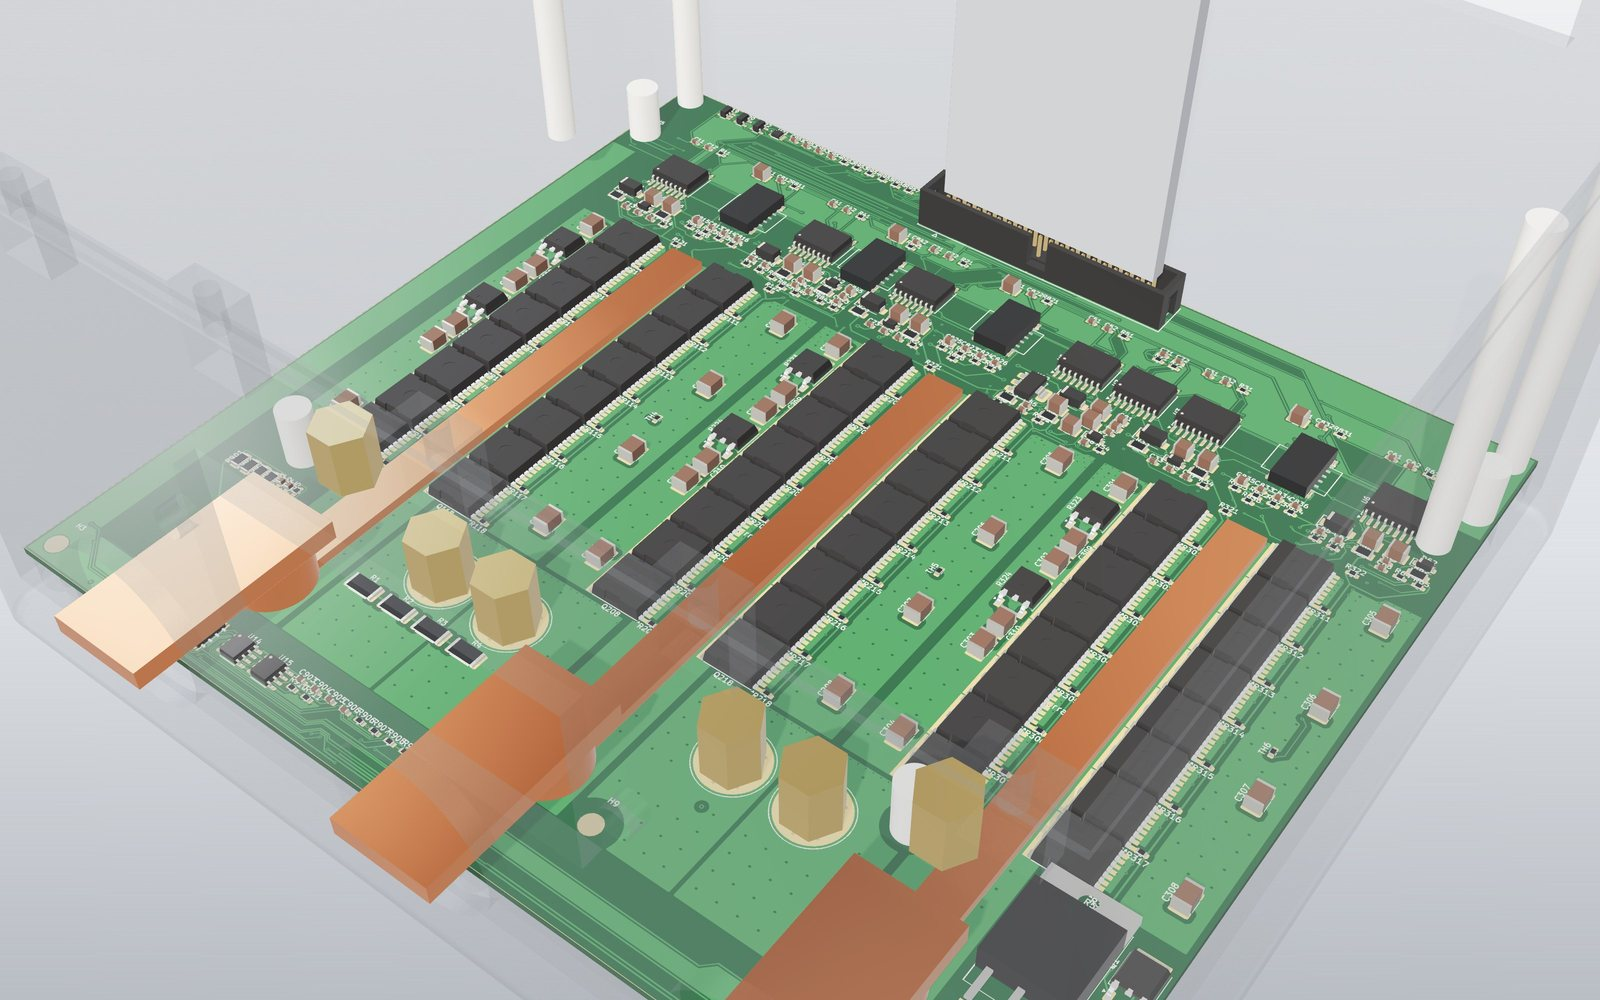
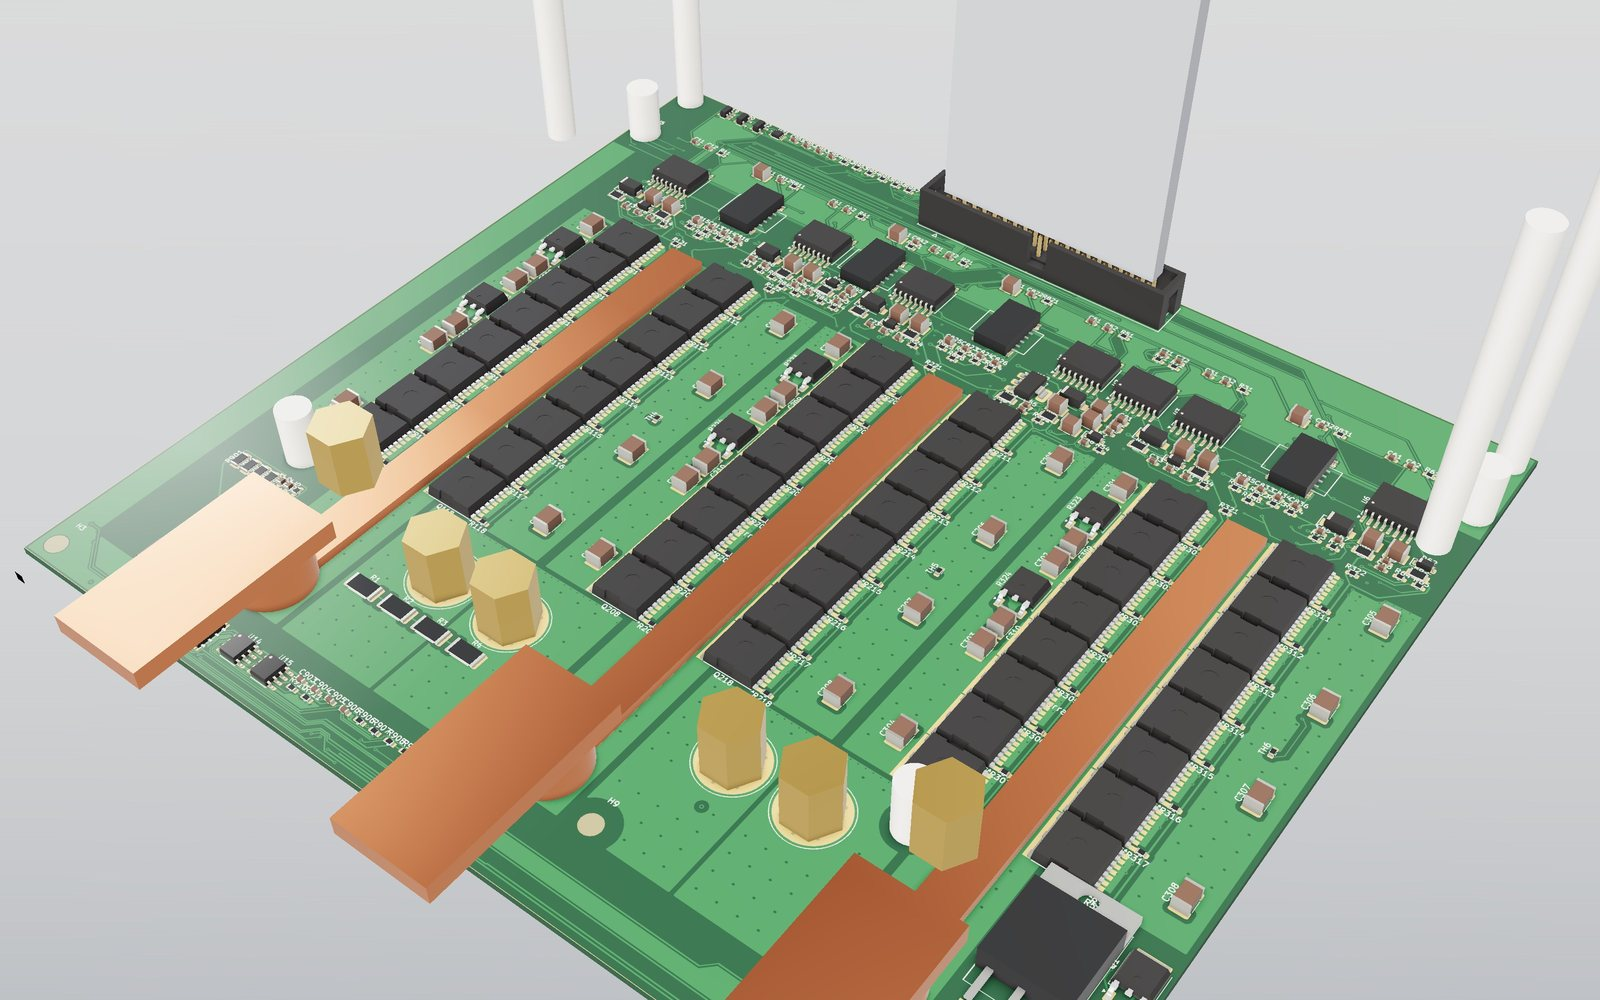
Vistas corregidas del gabinete
Claude-Session: https://claude.ai/code/session_01WMuwA59sp2NyGUn3PyYJAQ

diff --git a/index.html b/index.html
@@ -445,16 +445,28 @@ footer .wrap{display:flex;flex-wrap:wrap;gap:8px 24px;justify-content:space-betw
         <figcaption><b><span class="es">Producto terminado.</span><span class="en">Finished product.</span></b> <span class="es">220 × 209.5 × 142.6 mm con conectores, dentro de la ficha de 220 × 210 × 144 mm. Receptáculos sellados de alto voltaje para batería y fases, mangueras del refrigerante y tierra. Los conectores son genéricos, por definir con Olinia.</span><span class="en">220 × 209.5 × 142.6 mm with connectors, inside the 220 × 210 × 144 mm spec. Sealed high-voltage receptacles for battery and phases, coolant hoses and ground. Connectors are generic, to be defined with Olinia.</span></figcaption>
       </figure>
       <figure>
+        <div class="ph"><img src="img/gab_02_frente.jpg" width="1600" height="1000" alt="Frente del gabinete con el conector de batería arriba y las tres fases abajo"></div>
+        <figcaption><b><span class="es">Frente.</span><span class="en">Front.</span></b> <span class="es">Arriba, el receptáculo de batería; abajo, las tres fases U, V y W hacia el motor, y el cable verde de tierra.</span><span class="en">Battery receptacle on top; below, the three phases U, V and W to the motor, and the green ground lead.</span></figcaption>
+      </figure>
+      <figure>
         <div class="ph"><img src="img/gab_06_corte.jpg" width="1600" height="1000" alt="Corte lateral del gabinete mostrando los tres pisos"></div>
         <figcaption><b><span class="es">Corte lateral.</span><span class="en">Side section.</span></b> <span class="es">Abajo la placa de potencia sobre la placa fría con el canal de refrigerante, en medio los capacitores y arriba la placa de control.</span><span class="en">Power board on the cold plate with its coolant channel at the bottom, capacitors in the middle and the control board on top.</span></figcaption>
       </figure>
       <figure>
-        <div class="ph"><img src="img/gab_09_control.jpg" width="1600" height="1000" alt="Placa de control con el microcontrolador F28P65"></div>
-        <figcaption><b><span class="es">Placa de control.</span><span class="en">Control board.</span></b> <span class="es">206 × 54 mm, con el microcontrolador F28P65, la lectura del resolver, el supervisor y el CAN.</span><span class="en">206 × 54 mm, carrying the F28P65 microcontroller, resolver interface, supervisor and CAN.</span></figcaption>
+        <div class="ph"><img src="img/gab_07_terminales.jpg" width="1600" height="1000" alt="Terminales de batería con capuchones rojo y negro dentro del gabinete"></div>
+        <figcaption><b><span class="es">Terminales de CD.</span><span class="en">DC terminals.</span></b> <span class="es">La entrada de batería llega a los postes HV+ (rojo) y HV− (negro) con capuchones aislantes.</span><span class="en">The battery input reaches the HV+ (red) and HV− (black) posts under insulating caps.</span></figcaption>
+      </figure>
+      <figure>
+        <div class="ph"><img src="img/gab_10_refrigeracion.jpg" width="1600" height="1000" alt="Canal de refrigerante en la placa fría"></div>
+        <figcaption><b><span class="es">Placa fría.</span><span class="en">Cold plate.</span></b> <span class="es">Corte en planta: el canal en serpentín por donde pasa el refrigerante del vehículo, debajo de los MOSFET.</span><span class="en">Plan section: the serpentine channel that carries the vehicle's coolant under the MOSFETs.</span></figcaption>
       </figure>
       <figure class="wide">
         <div class="ph"><img src="img/gab_08_potencia.jpg" width="1600" height="1000" alt="Placa de potencia con los 48 MOSFET y las barras de cobre"></div>
         <figcaption><b><span class="es">Placa de potencia.</span><span class="en">Power board.</span></b> <span class="es">Los 48 MOSFET en tres piernas y las barras de cobre que llevan la corriente a las fases.</span><span class="en">The 48 MOSFETs in three legs and the copper bars that carry current to the phases.</span></figcaption>
+      </figure>
+      <figure class="wide">
+        <div class="ph"><img src="img/gab_09_control.jpg" width="1600" height="1000" alt="Placa de control con el microcontrolador F28P65"></div>
+        <figcaption><b><span class="es">Placa de control.</span><span class="en">Control board.</span></b> <span class="es">206 × 54 mm, con el microcontrolador F28P65, la lectura del resolver, el supervisor y el CAN.</span><span class="en">206 × 54 mm, carrying the F28P65 microcontroller, resolver interface, supervisor and CAN.</span></figcaption>
       </figure>
       <figure class="wide">
         <div class="pcb"><img src="img/pcb_potencia.jpg" width="1600" height="1437" alt="Cobre de la cara superior de la placa de potencia"></div>
